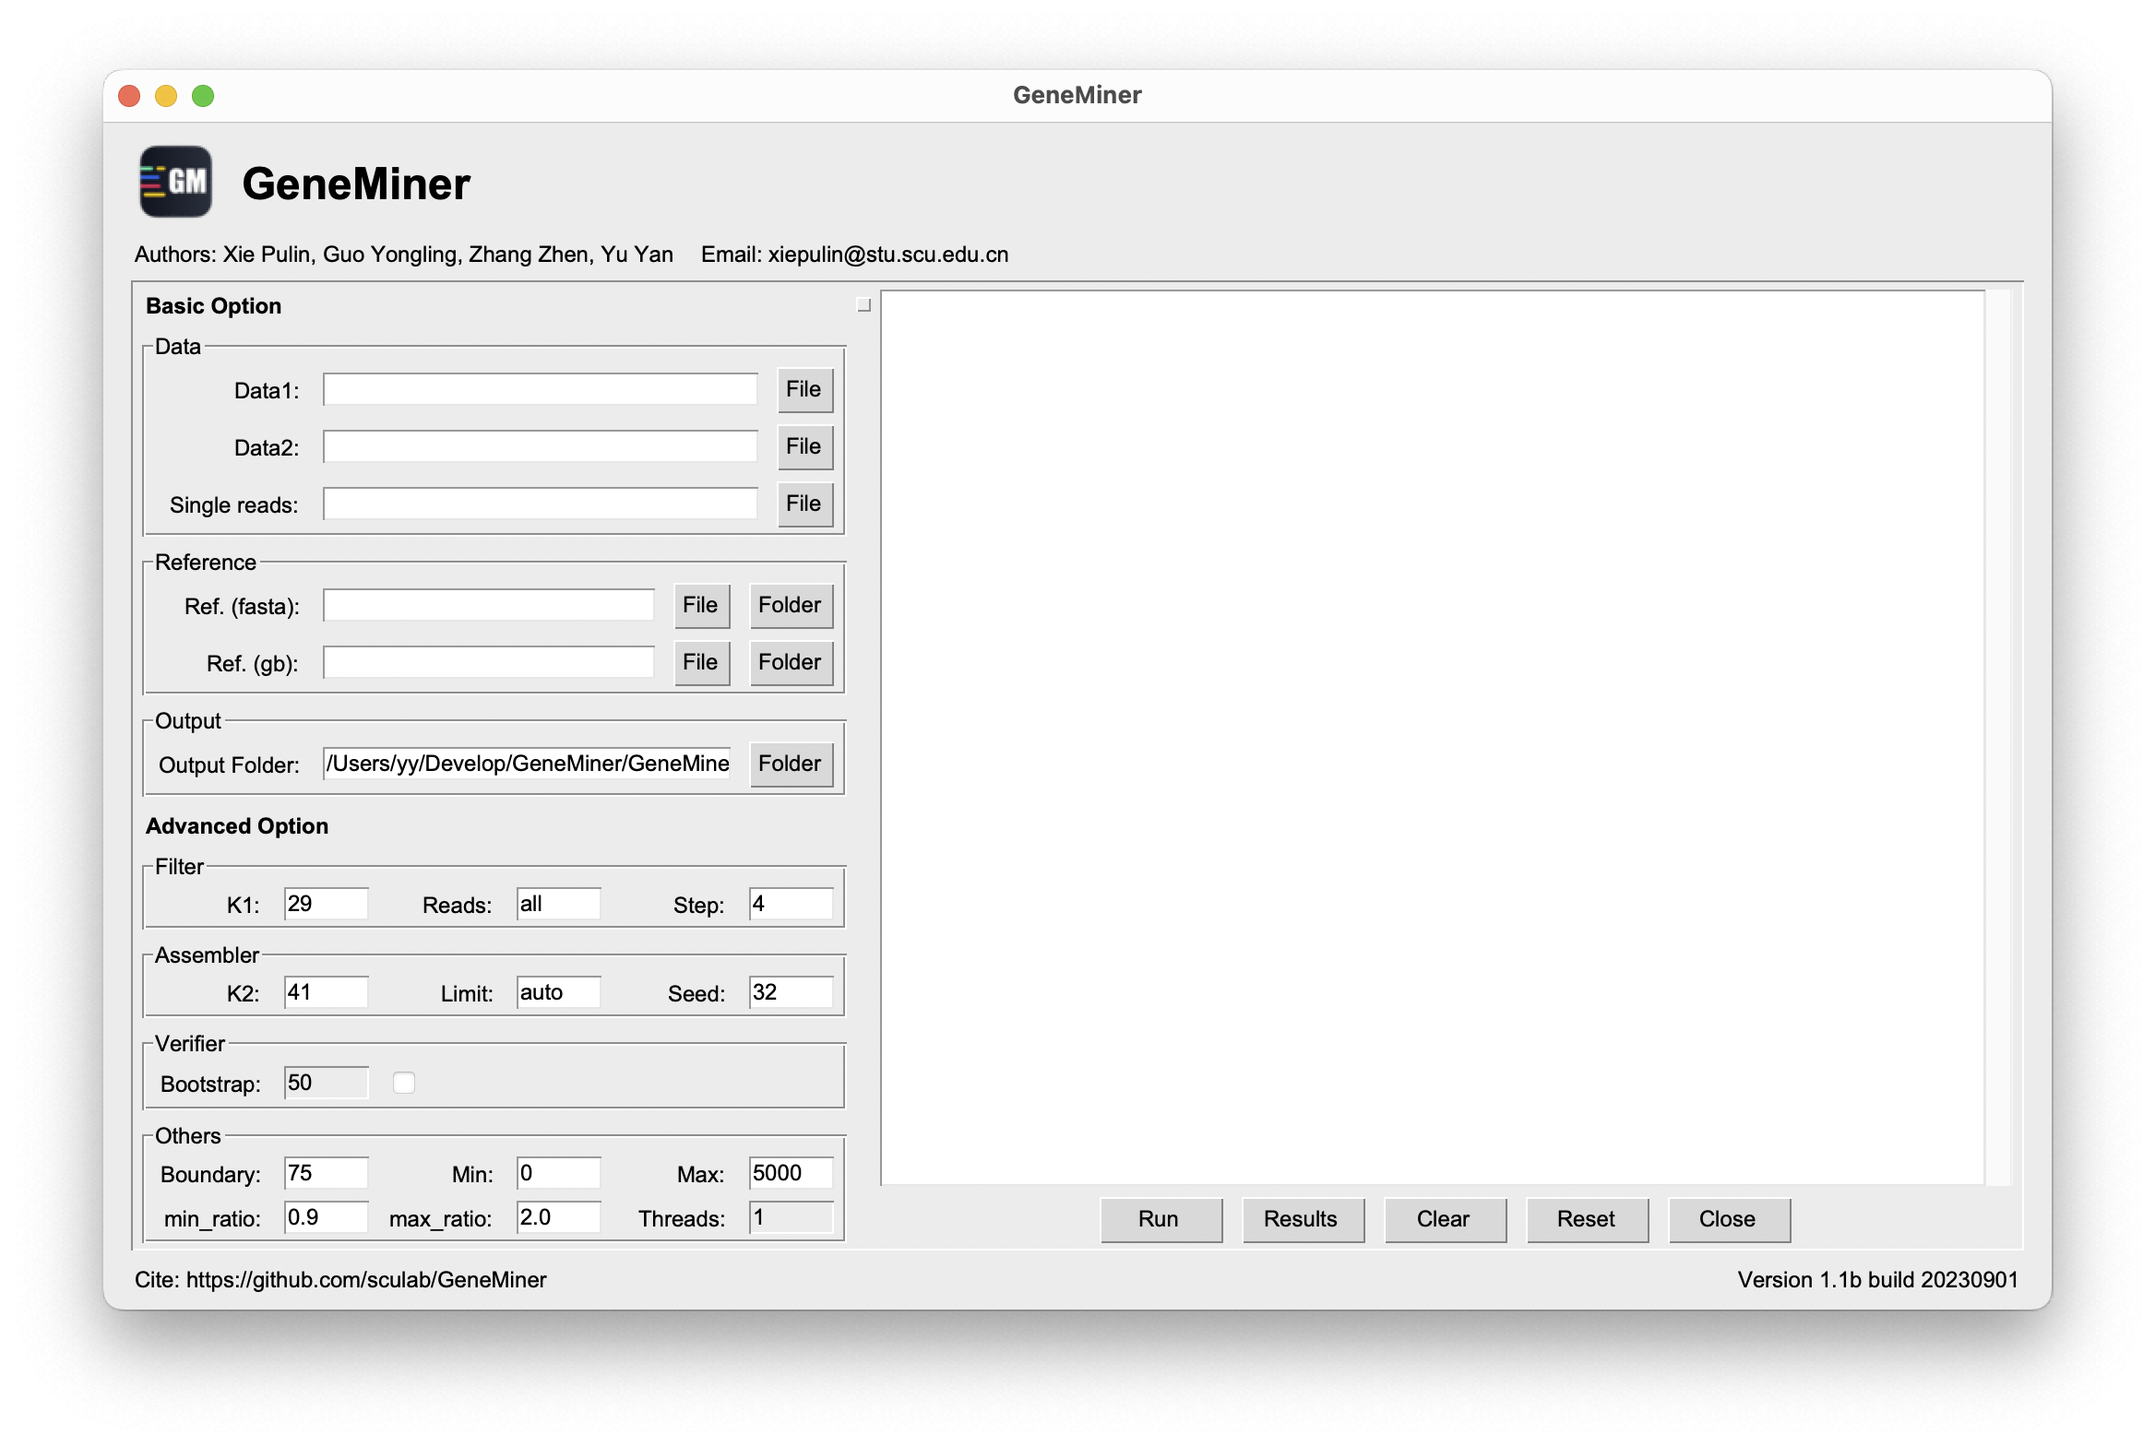
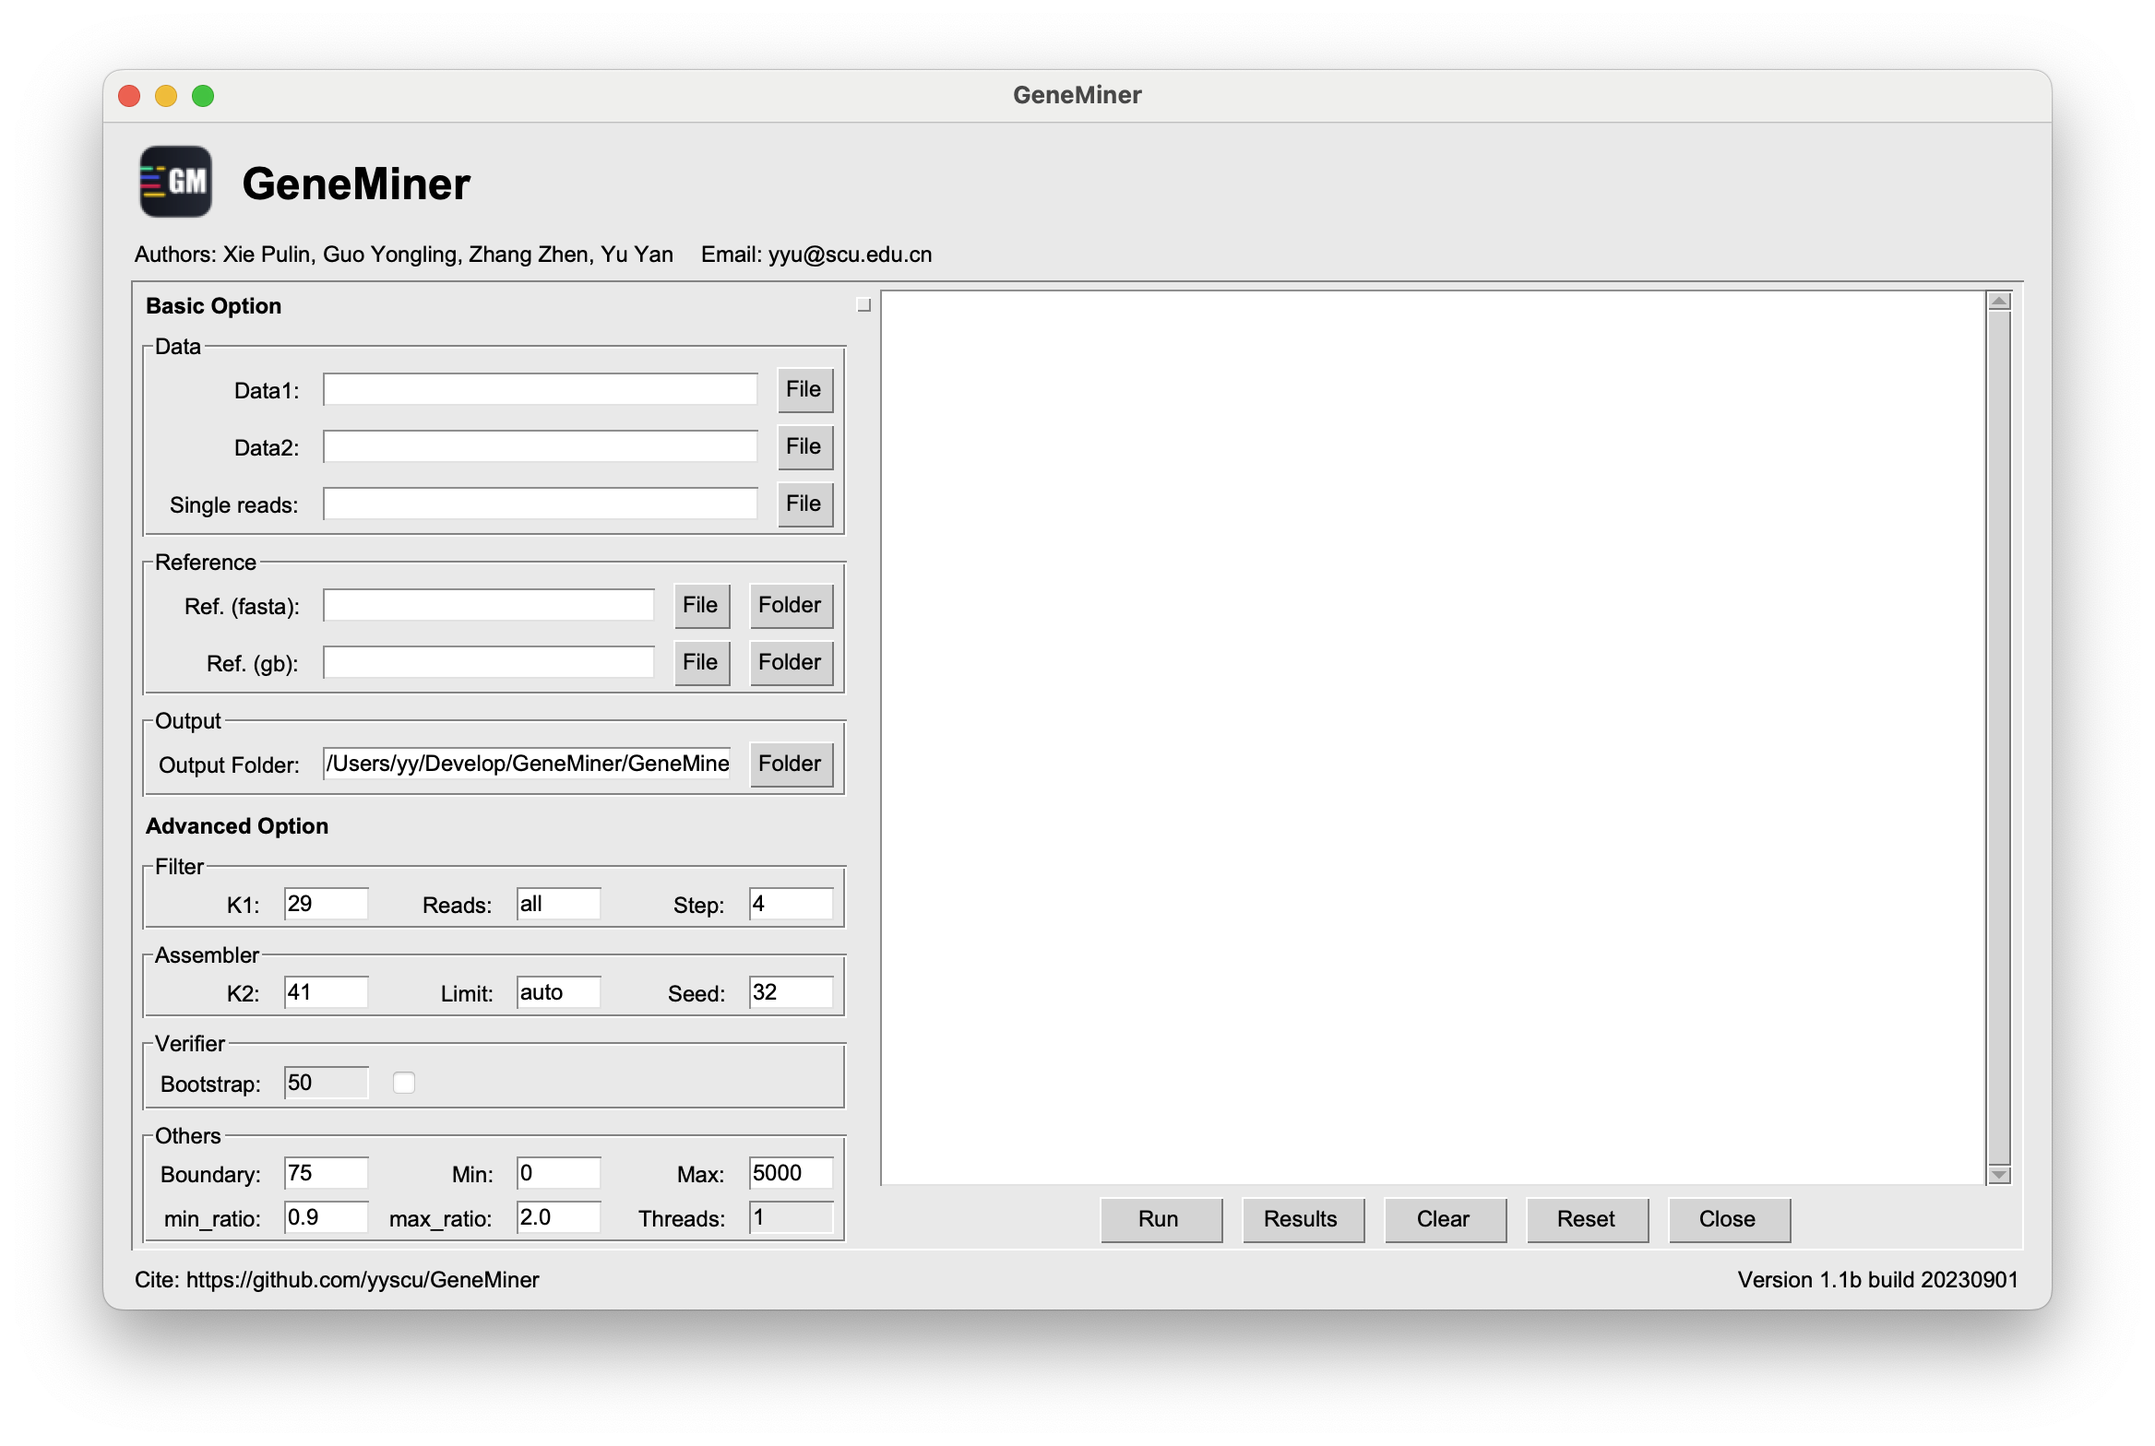
1203

Changed region(s): [[0.9062, 0.1875, 0.9375, 0.8125], [0.3438, 0.1562, 0.4688, 0.1875], [0.1562, 0.875, 0.25, 0.9062]]

diff --git a/geneminer_gui.py b/geneminer_gui.py
@@ -52,7 +52,7 @@ from lib.bootstrap_pipeline import my_bootstrap_pipeline_main
 from lib.pack_results import my_pack_results_pipeline_main
 
 my_version = 'Version 1.1b build 20230901'
-my_cite = 'Cite: https://github.com/sculab/GeneMiner'
+my_cite = 'Cite: https://github.com/yyscu/GeneMiner'
 get_init()  # 在basic 中已经申明过了
 
 
@@ -387,7 +387,7 @@ def geneminer_GUI():
     layout = [
         [sg.Image(icon_48), sg.Text('GeneMiner', justification="left", font=("Arial", 24, "bold"))],
         [sg.T('Authors: Xie Pulin, Guo Yongling, Zhang Zhen, Yu Yan', font=("Arial", 12)),
-         sg.T('Email: xiepulin@stu.scu.edu.cn', font=("Arial", 12))],
+         sg.T('Email: yyu@scu.edu.cn', font=("Arial", 12))],
         [sg.Pane([sg.Column(left_col, element_justification='l', expand_x=True, expand_y=True),
                   sg.Column(right_col, element_justification='c', expand_x=True, expand_y=True)], orientation='h',
                  relief=sg.RELIEF_SUNKEN, key='-PANE-')],
@@ -656,9 +656,9 @@ if __name__ == "__main__":
     #-o 参数不能设置为required=True 否则无法打开
     parser = argparse.ArgumentParser(usage="%(prog)s <-1 -2|-s>  <-rtfa|-rtgb>  <-o>  [options]",
                                      description="GeneMiner: a tool for extracting phylogenetic markers from next-generation sequencing data\n"
-                                                 "Version: 1.0.1\n"
-                                                 "Copyright (C) 2023 Pulin Xie\n"
-                                                 "Please contact <xiepulin@stu.edu.scu.cn> if you have any questions",
+                                                 "Version: 1.1.1\n"
+                                                 "Copyright (C) 2023 Pulin Xie & Y.YU\n"
+                                                 "Please contact <yyu@scu.edu.cn> if you have any questions",
 
                                      formatter_class=argparse.RawTextHelpFormatter,
                                      # help信息中会自动取消掉换行符和空格，argparse.RawTextHelpFormatter

diff --git a/geneminer.py b/geneminer.py
@@ -56,7 +56,7 @@ from lib.bootstrap_pipeline import my_bootstrap_pipeline_main
 from lib.pack_results import my_pack_results_pipeline_main
 
 my_version = 'Version 1.0b build 20230901'
-my_cite = 'Cite: https://github.com/sculab/GeneMiner'
+my_cite = 'Cite: https://github.com/yyscu/GeneMiner'
 get_init()  # 在basic 中已经申明过了
 
 
@@ -215,9 +215,9 @@ if __name__ == "__main__":
     # set_value("my_gui_flag", 0)  # 用于判定脚本是否跑完，还可以防止run双击覆盖事件
     parser = argparse.ArgumentParser(usage="%(prog)s <-1 -2|-s>  <-rtfa|-rtgb>  <-o>  [options]",
                                      description="GeneMiner: a tool for extracting phylogenetic markers from next-generation sequencing data\n"
-                                                 "Version: 1.0.1\n"
-                                                 "Copyright (C) 2023 Pulin Xie\n"
-                                                 "Please contact <xiepulin@stu.edu.scu.cn> if you have any questions",
+                                                 "Version: 1.1.1\n"
+                                                 "(C) 2023 Pulin Xie & Y. YU\n"
+                                                 "Please contact <yyu@scu.edu.cn> if you have any questions",
 
                                      formatter_class=argparse.RawTextHelpFormatter,
                                      # help信息中会自动取消掉换行符和空格，argparse.RawTextHelpFormatter

diff --git a/lib/verify_parameters.py b/lib/verify_parameters.py
@@ -471,8 +471,8 @@ def print_parameter_information(parameter_information_dict):
     symbol="-"
     print(symbol*22,flush=True)
     header="GeneMiner: a software for extracting phylogenetic markers from next generation sequencing data\n" \
-           "Version: 1.0\n" \
-           "Copyright (C) 2023 Pulin Xie"
+           "Version: 1.1\n" \
+           "Copyright (C) 2023 Pulin Xie & Y.YU"
 
 
     print(header,flush=True)

diff --git a/setup.py b/setup.py
@@ -68,7 +68,7 @@ setup(
     name="GeneMiner",
     version="1.1",
     author="xiepulin",
-    author_email="xiepulin@stu.scu.edu.cn , happywithxpl@126.com",
+    author_email="yyu@scu.edu.cn , happywithxpl@126.com",
     description="""GeneMiner : a tool for extracting phylogenetic markers from next-generation sequencing data""",
     license="GPL-3.0 license",
     # Project home

diff --git a/README.md b/README.md
@@ -1,5 +1,274 @@
-# GeneMiner
 
-**该软件已经迁移到我们团队的Github账号下。请访问 [https://github.com/yyscu/GeneMiner](https://github.com/yyscu/GeneMiner) 查看最新的版本**
+# Overview
 
-**This software has been migrated to our team's Github account. Please visit [https://github.com/yyscu/GeneMiner](https://github.com/yyscu/GeneMiner)  to view the latest version.**
+GeneMiner is a software for extracting phylogenetic markers from next-generation sequencing (NGS) data. (i) With GeneMiner, users can accurately and efficiently obtain a large number of phylogenetic markers  from NGS data at an economical cost. For example, extract all or part of mitochondrial/chloroplast genes and highly repetitive regions (e.g., nrDNA) in the nuclear genome from genome skimming data. Extract single-to-low-copy genes from transcriptome sequencing data, etc. GeneMiner broadens the choice of phylogenetic markers from the most basic data level. (ii) GeneMiner proposes a novel verification method based on the base substitution model and repetitive resampling, which can statistically evaluate the impact of the reference on the assembly. (iii) GeneMiner provides a cross-platform graphical interface and can be easily docked to downstream phylogenetic analysis processes. In addition, GeneMiner can be applied to the research of DNA barcode extraction, customs quarantine, specific functional gene exploration, and other research, which has broad application prospects.
+
+
+
+# Dependencies
+
+[Python](https://www.python.org/downloads/) 3.6 or later, along with the Python libraries.
+
+- [biopython](http://biopython.org/wiki/Main_Page) 1.79 or later
+
+
+
+# Download and install
+
+GeneMiner is an easy-to-use software written in python3, which is provided for x86-64 systems running GNU/Linux, macOS (version 10.13 or higher), and Windows (64-bit, version 7 or higher).
+
+Users on Windows, macOS, and Linux can run GeneMiner directly from the command line. We also offer a more convenient GUI version for Windows and macOS users.
+
+## GeneMiner with Graphical User Interface (GUI)
+
+For individuals who are not accustomed to utilizing the command line or for light use, we advise using the GUI version. 
+
+For windows: Download the corresponding version of the packaged GUI from [here](https://github.com/yyscu/Geneminer/releases/latest) and double-click to run it.
+
+For macOS: 
+```shell
+git clone https://github.com/yyscu/GeneMiner.git
+cd GeneMiner
+pip install -r requirements.txt --user
+python geneminer_gui.py
+```
+![图片](https://github.com/yyscu/GeneMiner/blob/main/imgs/gui.png)
+
+**Note**: Please be aware that on certain operating systems, you might need to use 'pip3' and 'python3' instead of 'pip' and 'python' when running commands.
+
+## **GeneMiner with command (cmd)**
+
+- option1  **Cloning the GitHub repository**
+- option2  **Source code installation**
+- option3  **Flexible construction**
+
+
+
+**Cloning the GitHub repository**  (support)
+
+Clone GeneMiner's repository directly and build it as below:
+
+```shell
+git clone https://github.com/yyscu/GeneMiner.git
+cd GeneMiner
+python setup.py install --record logName --user #Add 'geneminer.py' to the '$PATH' 
+geneminer.py -h
+```
+
+If you want to remove `geneminer.py` from the `$PATH`, you can:
+
+```
+cat logName | xargs rm -rf  
+```
+
+
+
+**Source code installation**
+
+ Download the source distribution from the [release](https://github.com/yyscu/Geneminer/releases/latest) and  install dependencies:
+
+```shell
+wget -c https://github.com/yyscu/GeneMiner/archive/refs/tags/geneminer_v1.1.tar.gz
+tar geneminer_v1.1.tar.gz
+cd  geneminer_v1.1
+python setup.py install --record logName --user
+geneminer.py -h
+```
+
+If you want to remove `geneminer.py` from the `$PATH`, you can:
+
+```
+cat logName | xargs rm -rf  
+```
+
+
+
+**Flexible construction**
+
+If both of the above methods fail or you want to have a deeper control of GeneMiner, you can use a more flexible method.
+
+- Download the GeneMiner's distribution from  [here](https://github.com/yyscu/Geneminer/releases/latest).
+
+```shell
+wget -c https://github.com/yyscu/GeneMiner/archive/refs/tags/geneminer_v1.1.tar.gz
+tar geneminer_v1.1.tar.gz
+```
+
+- Use the following commands to make `geneminer.py`  executable.
+
+```shell
+cd  geneminer_v1.1
+chmod 755 geneminer.py
+```
+
+- Install python library `biopython` using pip or conda.
+
+```shell
+# install required libs
+pip install biopython --user
+```
+
+- Add `geneminer.py` to the `$PATH`. The following is an example for linux users:
+
+```shell
+echo "export PATH=\$PATH:$(pwd)" >> ~/.bashrc  
+source ~/.bashrc
+geneminer.py -h
+```
+
+
+
+# Running GeneMiner
+
+GeneMiner takes the reference sequences and FASTQ format sequencing files as input and the recovered phylogenetic markers as output. We have prepared a simulated dataset of `Arabidopsis thaliana` to help you quickly grasp the main usage of GeneMiner. The file were included in **DEMO** folder.
+
+
+
+## Running GeneMiner command-line
+
+- Mining single target gene from genome skimming data
+
+```shell
+geneminer.py -1 skimming_data1.fq.gz -2 skimming_data2.fq.gz -rtfa shallow_ref/ITS.fasta -o ITS_out
+```
+
+`-1`,`-2`:  the input files with paired-end reads, given in FASTQ format
+
+`-rtfa`:  reference sequences in FASTA format
+
+`-o`:        the output directory
+
+
+
+- Mining multiple target genes using from genome skimming data
+
+```shell
+#for FASTA format
+geneminer.py -1 skimming_data1.fq.gz -2 skimming_data2.fq.gz -rtfa shallow_ref/ -o out1 
+#for GenBank format
+geneminer.py -1 skimming_data1.fq.gz -2 skimming_data2.fq.gz -rtgb shallow_ref.gb -o out2
+```
+
+`-rtfa`:  reference sequences in FASTA format
+
+`-rtgb`:   reference sequences in GenBank format
+
+
+
+- Mining multiple target genes from genome skimming data and evaluating the assembly results.
+
+```shell
+geneminer.py -1 skimming_data1.fq.gz  -2 skimming_data2.fq.gz -rtfa shallow_ref/ -min 300 -max 5000 -limit_count auto -t 4 -bn 20 -o out3
+```
+
+`min`: The minimum length of recovered target genes to be retained [default = 0]
+
+`max`: The maximum length of recovered target genes to be retained [default = 5000]
+
+`limit_count`: The minimum number of times a k-mer should appear in reads, used to remove likely erroneous and 
+
+                          low-abundance k-mers [default = auto]
+
+`-t`:   The number of threads
+
+`-bn`:   Specify the bootstrap number. Evaluate the assembly results based on repeated resampling and base substitution model.
+
+
+
+- Mining Angiosperms353 genes from  transcriptome data
+
+```shell
+geneminer.py -1 Arabidopsis_thaliana_sim1.fq.gz -2 Arabidopsis_thaliana_sim2.fq.gz -rtfa ref_Arabidopsis_353 -k1 31 -k2 41 -t 4 -limit_count auto -b 10000 -o Angiosperm353
+```
+
+`k1`:  Length of kmer for filtering reads [default = 31]
+
+`k2`:  Length of kmer for assembling reads [default = 41]
+
+`-b`:  Length of the extension along both sides of the recovered target gene. Set to a large value (e.g. 10000) if you want to retain  		 the complete assembly. Recommended length is 0.5 * reads length [default = 75]
+
+
+
+## Running GeneMiner-GUI
+
+GeneMiner-GUI is straightforward, simple to use, and ideal for lightweight users. Considering the memory limit and the excessive time overhead, we recommend you utilize GeneMiner-cmd when you run large-scale data
+
+For GeneMiner-GUI, you must set `Data1`, `Data2` or `Single reads` under the `Data` module, `Ref.(fasta)` or `Ref.(gb)` under the `Reference` module and  `Output Folder` under the `Outout` module as below:
+
+![图片](https://github.com/yyscu/GeneMiner/blob/main/imgs/gui_working.png)
+
+**Run**
+
+Set the parameters, then click on the `Run` botton
+
+**View Results**
+
+Click on the `Results` button to view the results after the GeneMiner has completed. 
+
+Don't worry if you notice that the output text box in the GUI appears to be "paused." It's because some steps are time-consuming (e.g., filtering reads and assembly). You can click on the `Results` button to check the exact progress . To avoid interrupting the program, do not attempt to read or write the existing files. 
+
+According to the processing order of GeneMiner, it will generate: `reference_database <folder>  `，`filtered_out <folder>`，`assembled_out <folder>`，`GM_results <folder>`，`bootstrap_out <folder> `（if using the `-bn` parameter),`results.csv <file>` in order.
+
+**Clear the screen**
+
+Click on the `Clear` botton
+
+**Reset parameters**
+
+Click on the `Reset` botton and all parameters will be reset to default parameters.
+
+WorkFlow: Reset ==>> Enter new parameters ==>> Run
+
+Note: Do not click on the  `Reset` botton while the program is running
+
+**Close GeneMiner**
+
+Click on the `Close` botton
+
+Note: If closing GeneMiner's GUI does not kill the scripts in the background, you can open Task Manager to close GeneMiner's tasks.
+
+
+
+## View results
+
+Now, you can view the results of GeneMiner in the output directory.  
+
+The output directory contains  `reference_database`、`filtered_out `、`assembled_out`、 `GM_results`、`bootstrap_out `  and `results.csv` 
+
+`reference_database <folder>  `: Used to store reference sequences
+
+`filtered_out <folder>`：Used to store filtered reads
+
+`assembled_out <folder>`: Used to store assembled contigs 
+
+`GM_results <folder>`:Used to store all the target genes mined by GeneMiner
+
+`bootstrap_out <folder> ` :Used to store assessment of assembly results, If you have used the `-bn` parameter
+
+`results.csv <file>` :Record various information about the recovered target genes
+
+
+
+# User manual
+
+A more complete manual is here: https://github.com/yyscu/GeneMiner/blob/main/GeneMiner_User_Guide.pdf
+
+# Contact
+
+Please check [Geneminer's homepage](https://github.com/yyscu/GeneMiner) first. If something is wrong when running GeneMiner, please do not be surprised and report it to us. We usually have quick response to bugs.
+
+- Find Questions & Answers at [GeneMiner Discussions](https://github.com/yyscu/GeneMiner/discussions/categories/q-a): **Recommended**
+- Report Bugs & Issues at [GeneMiner Issues](https://github.com/yyscu/GeneMiner/issues): Please avoid repetitive or irrelevant issues
+
+**DO NOT** directly write to us with your questions, instead please post the questions **publicly**, using above platforms  Our emails (yyu@scu.edu.cn, 1791173948@qq.com) are only for receiving public question alert and private data (if applied) associated with those public questions. When you send your private data to us, enclose the email with a link where you posted the question. Our only reply emails will be a receiving confirmation, while our answers will be posted in a public place.
+
+
+
+# Citation
+
+When you use GeneMiner please cite:
+
+**GeneMiner : a tool for extracting phylogenetic markers from next-generation sequencing data**
+
+
+
